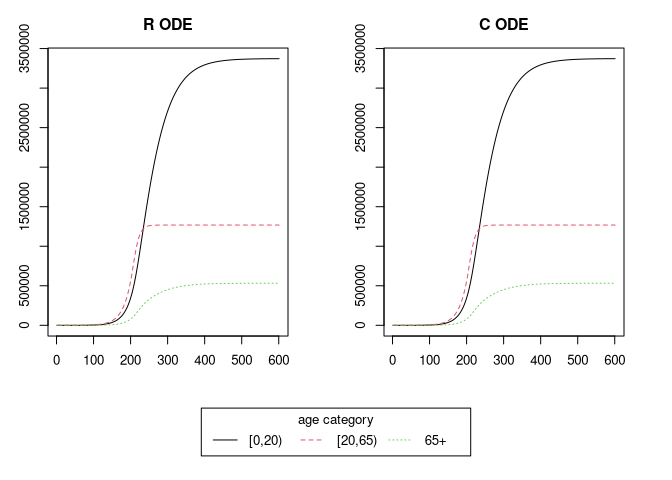
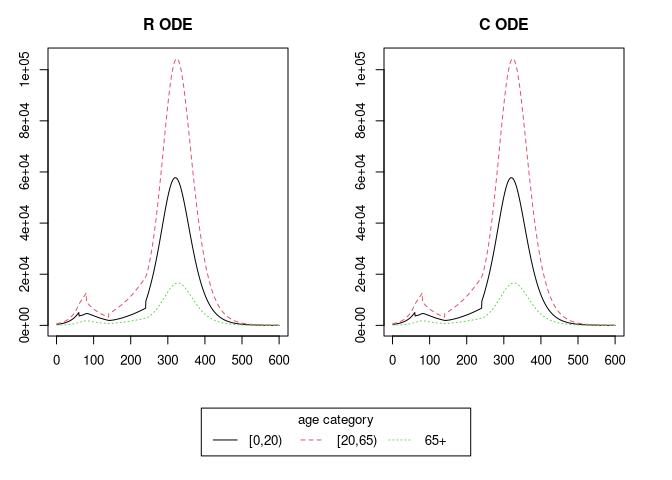
add contact reducing interventions

diff --git a/src/seir.c b/src/seir.c
@@ -10,8 +10,11 @@ static double parms[500];
 // - after gamma we then have n vaccination start times; parms[4:(4 + n - 1)].
 // - we then have n vaccination end times; parms[(4+n):(4 + 2*n - 1)]
 // - we then have n nu values; parms[(4 + 2*n):(4 + 3*n - 1)]
-// - matrix values then occur; parms[(4 + 3*n):(4 + 3*n - 1 + n^2)]
-
+// - matrix values then occur; parms[(4 + 3*n):(4 + 3*n - 1 + n*n)]
+// - the number of interventions, nint; parms[4 + 3*n + n*n]
+// - the intervention start times, parms[(5 + 3*n + n*n):(4 + 3*n + n*n + nint)]
+// - the intervention end times, parms[(5 + 3*n + n*n + nint):(4 + 3*n + n*n + 2*nint)]
+// - the unpacked intervention matrix[(5 + 3*n + n*n + 2*nint): (4 + 3*n + n*n + 2*nint + n*nint)]
 
 void initmod(void (* odeparms)(int *, double *)) {
     int N = 500;
@@ -24,6 +27,21 @@ void derivs (int *neq, double *t, double *y, double *ydot, double *yout, int *ip
     int I_index = 2 * n;
     int R_index = 3 * n;
 
+    // We need to work out the contact reduction (if any)
+    int nn = n;
+    int n_int = parms[4 + 3*nn + (nn*nn)];
+    int which_int = -1;
+    int int_index = 0;
+    if (n_int > 0) {
+        for (int i = 0; i < n_int; i++) {
+            if (parms[5 + 3*nn + (nn*nn) + i] <= *t && *t < parms[5 + 3*nn + (nn*nn) + n_int + i]) {
+                which_int = i;
+                int_index = 5 + 3*nn + (nn*nn) + (2 + i)*n_int;
+                break;
+            }
+        }
+    }
+
     for (int i = 0; i < n; i++) {
 
         // account for vaccination
@@ -35,12 +53,19 @@ void derivs (int *neq, double *t, double *y, double *ydot, double *yout, int *ip
             nu = parms[nu_index];
         }
 
+        // workout contact reduction
+        double reduction = 0;
+        if (which_int >= 0) {
+            reduction = parms[int_index + i];
+        }
+
+
         // account for SI contacts
         int m_index = 4 + 3*n + i;
         double SI = 0;
         for (int j = 0; j < n; j++) {
             double I = y[I_index + j];
-            SI += parms[m_index + j * (int) n] * I;
+            SI += parms[m_index + j * (int) n] * I * (1 - reduction);
         }
 
         // dS

diff --git a/src/init.c b/src/init.c
@@ -1,13 +1,6 @@
 #include <stdlib.h> // for NULL
-
-#ifndef R_R_H
 # include <R.h>
-#endif
-
-#ifndef R_EXT_DYNLOAD_H_
 # include <R_ext/Rdynload.h>
-#endif
-
 #include <Rinternals.h>
 
 extern void initmod(void (* odeparms)(int *, double *));

diff --git a/README.md b/README.md
@@ -12,7 +12,8 @@ Note, at present, the implementations assumes:
 
 - a closed population (no births, deaths or ageing);
 - single (age-dependent) vaccination;
-- no other time dependent parameters or interventions.
+- cumulative contact reduction interventions;
+- no other time dependent parameters.
 
 ``` r
 library(seir)
@@ -32,33 +33,38 @@ demography <- contact_data$demography$population
 n <- nrow(contact_matrix)
 
 # initial conditions
+init_i <- 1e-4
 init <- matrix(
-    c(S = 0.999999, E = 0, I = 0.000001, R = 0),
+    c(S = 1-init_i, E = 0, I = init_i, R = 0),
     nrow = n,
     ncol = 4L,
     byrow = TRUE
 )
 
 # epi parameters
-alpha <- 1/3
-beta <- 1.5/7
-gamma <- 1/7
+infectious_period <- 5
+preinfectious_period <- 1.5
+r0 <- 1.3
+
+alpha <- 1 / preinfectious_period
+beta <- r0 / infectious_period
+gamma <- 1 / infectious_period
 
 # time stuff
 time_end <- 600
 increment <- 1
 
-# vaccination
-vac_start <- c(0, 200, 0)
-vac_end <- c(0, 300, 0)
-nu <- c(0, 0.1, 0)
+is <- c(60,80)
+ie <- c(240,140)
+ii <- cbind(c(0.3,0.01,0.01), c(0.01,0.3,0.01))
 
 # R implementation
 out_r <- seir_r(
     alpha, beta, gamma,
     contact_matrix, demography,
-    init, time_end, 
-    vac_start, vac_end, nu
+    init, time_end,
+    intervention_start_times = c(60,80), intervention_end_times = c(240,140),
+    intervention = cbind(c(0.3,0.01,0.01), c(0.01,0.3,0.01))
 )
 
 # C implementation
@@ -66,15 +72,17 @@ out_c <- seir_c(
     alpha, beta, gamma,
     contact_matrix, demography,
     init, time_end,
-    vac_start, vac_end, nu
+    intervention_start_times = c(60,80), intervention_end_times = c(240,140),
+    intervention = cbind(c(0.3,0.01,0.01), c(0.01,0.3,0.01))
 )
 
 # compare outputs
-recovered_index <- (3*n + 2):(4*n + 1)
+s_index <- (0*n + 2):(1*n + 1)
 layout(matrix(c(1,2,3,3), ncol=2, byrow=TRUE), heights=c(4, 1))
 op <- par(mai=rep(0.5, 4))
-matplot(out_r[, recovered_index], ylab = "", xlab = "", type = "l", main = "R ODE")
-matplot(out_c[, recovered_index], ylab = "", xlab = "", type = "l", main = "C ODE")
+
+matplot(out_r[1:600, s_index] - out_r[2:601, s_index], ylab = "", xlab = "", type = "l", main = "R ODE")
+matplot(out_c[1:600, s_index] - out_c[2:601, s_index], ylab = "", xlab = "", type = "l", main = "C ODE")
 par(mai=c(0,0,0,0))
 plot.new()
 legend(
@@ -93,17 +101,19 @@ microbenchmark::microbenchmark(
         alpha, beta, gamma,
         contact_matrix, demography,
         init, time_end,
-        vac_start, vac_end, nu
+        intervention_start_times = c(60,80), intervention_end_times = c(240,140),
+        intervention = cbind(c(0.3,0.01,0.01), c(0.01,0.3,0.01))
     ),
     C = seir_c(
         alpha, beta, gamma,
         contact_matrix, demography,
         init, time_end,
-        vac_start, vac_end, nu
+        intervention_start_times = c(60,80), intervention_end_times = c(240,140),
+        intervention = cbind(c(0.3,0.01,0.01), c(0.01,0.3,0.01))
     )
 )
 #> Unit: microseconds
-#>  expr       min         lq      mean    median        uq      max neval cld
-#>     R 13734.652 14114.6810 15279.602 14281.810 15853.426 27796.40   100  a 
-#>     C   795.317   902.4215  1042.418   976.403  1069.089  2979.69   100   b
+#>  expr       min       lq      mean    median        uq       max neval cld
+#>     R 22044.896 22980.14 23903.176 23255.611 24957.828 30075.917   100  a 
+#>     C   930.805   992.98  1102.562  1084.883  1212.781  1553.091   100   b
 ```
